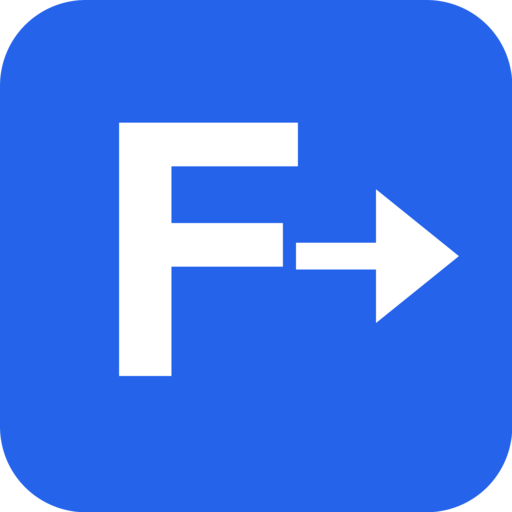
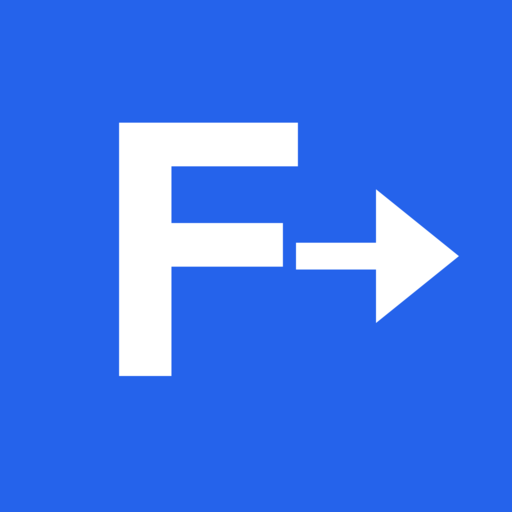
Add files via upload

diff --git a/instalar-fletero.html b/instalar-fletero.html
@@ -91,11 +91,19 @@
   }
   .btn-enter:hover { background: #1741B0; }
 
-  .ios-note {
-    width: 100%; background: #F5F3EE; border-radius: 10px; padding: 14px 16px;
-    font-size: 12px; color: #444; line-height: 1.7; margin-bottom: 18px; text-align: left;
+  .steps-note {
+    width: 100%; background: #F5F3EE; border-radius: 10px; padding: 16px;
+    margin-bottom: 18px; text-align: left;
   }
-  .ios-note b { color: #0D1117; }
+  .step-title { font-size: 12px; font-weight: 700; color: #0D1117; margin-bottom: 12px; }
+  .step-row { display: flex; gap: 10px; align-items: flex-start; margin-bottom: 10px; font-size: 12px; color: #444; line-height: 1.5; }
+  .step-row:last-child { margin-bottom: 0; }
+  .step-num {
+    flex-shrink: 0; width: 20px; height: 20px; border-radius: 50%; background: #2563EB;
+    color: #fff; font-size: 11px; font-weight: 700; display: flex; align-items: center;
+    justify-content: center; margin-top: 1px;
+  }
+  .step-row b { color: #0D1117; }
 
   .link-chrome { font-size: 12px; color: #8A8A85; font-weight: 500; text-decoration: none; }
   .link-chrome:hover { color: #444; }
@@ -149,12 +157,17 @@
 
   <a id="btnEntrar" class="btn-enter" href="fletar-fletero.html">Ingresar a la app</a>
 
-  <div id="iosNote" class="ios-note hidden">
-    Tocá el ícono de <b>compartir</b> (el cuadradito con la flecha hacia arriba) y elegí <b>"Agregar a pantalla de inicio"</b>.
+  <div id="iosNote" class="steps-note hidden">
+    <div class="step-title">Agregá el ícono a tu pantalla</div>
+    <div class="step-row"><span class="step-num">1</span><span>Tocá el ícono de <b>compartir</b> (el cuadradito con la flecha hacia arriba)</span></div>
+    <div class="step-row"><span class="step-num">2</span><span>Elegí <b>"Agregar a pantalla de inicio"</b></span></div>
   </div>
 
-  <div id="androidNote" class="ios-note hidden">
-    Tocá el menú <b>⋮</b> (arriba a la derecha de tu navegador) y elegí <b>"Instalar app"</b> o <b>"Agregar a pantalla de inicio"</b>.
+  <div id="androidNote" class="steps-note hidden">
+    <div class="step-title">Agregá el ícono a tu pantalla</div>
+    <div class="step-row"><span class="step-num">1</span><span>Tocá el menú <b>⋮</b> arriba a la derecha del navegador</span></div>
+    <div class="step-row"><span class="step-num">2</span><span>Elegí <b>"Agregar a la pantalla de inicio"</b> (o "Instalar app" si aparece)</span></div>
+    <div class="step-row"><span class="step-num">3</span><span>Confirmá tocando <b>"Agregar"</b> — listo</span></div>
   </div>
 
   <a id="linkChrome" class="link-chrome" href="fletar-fletero.html">Seguir usando desde Chrome →</a>